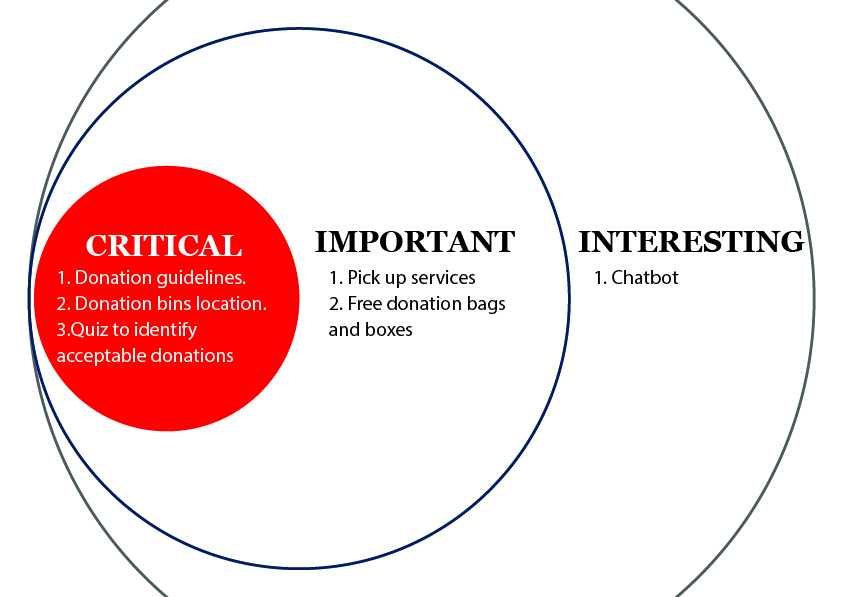
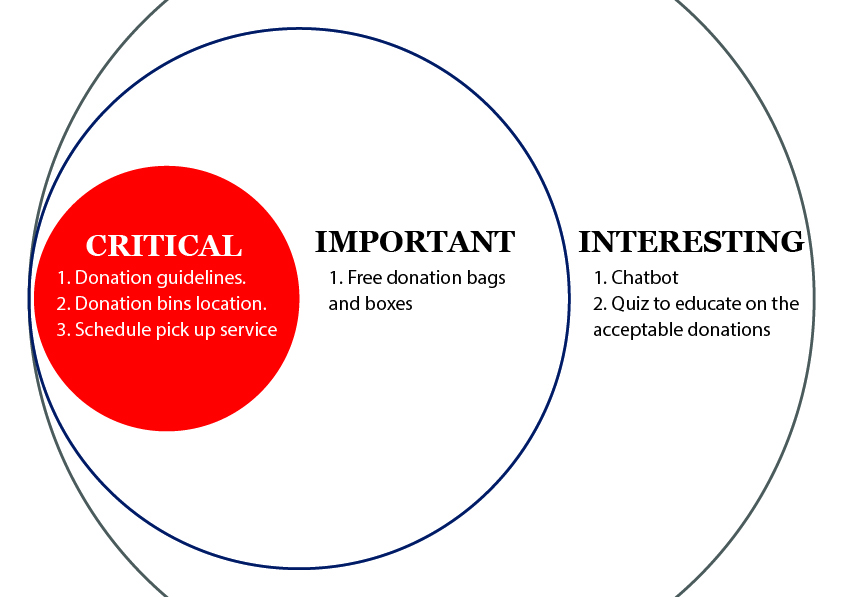
completed till sketches

Changed region(s): [[0.3701, 0.4523, 0.6168, 0.5729], [0.7094, 0.4824, 0.9561, 0.5729], [0.0617, 0.5427, 0.3393, 0.603]]

diff --git a/index.html b/index.html
@@ -172,24 +172,72 @@
 		
 				</div>
 
+				<p>Through journey mapping of the user profiles, we are presented with some opportunities. 
+					For example, guides for users who are confused on whether certain goods are acceptable for donation; 
+					Transport service for picking up bulky goods; Users can sign up for free boxes and bags to pack their donations.
+					A map to locate donation bins around them.</p>
+
+					<h3>Conclusion</h3>
+					<p>All the aforementioned opportunities can be used to drive users to the website. By providing them value added services, 
+						we can complete their user journey on the website with some infomation about Salvation Army's exisiting donation guidelines.
+						When users leave our website, they would be more educated about the whole donation process and guidelines.
+						And hopefully user can be more thoughtful on gathering their goods for donations, and also help cut wastage in the process.
+					</p>	
+
 
 			<!-- Use the blockquote element if applicable -->
 		</section>
 		<section id="ideation">
 			<h2>Ideation</h2>
-			<p>Ratione nulla nam, ipsa dignissimos corrupti veniam nostrum, laudantium asperiores sequi numquam placeat velit voluptate
-				in praesentium non labore unde incidunt laborum maxime quae magni.</p>
+			<p>With limited time and resources for this project, it is important to priortise which features to be put on the development roadmap.
+				Hence we'll be using a matrix to select what are the deliverables for this website.
+			</p>
+
+			<figure>
+				<img src="Assets/content-priortization.jpg" alt="content priortization matrix." />
+				<figcaption>Content priortization matrix to select what are the more important features to be delivered.</figcaption>
+
+			</figure>
+			<p>So we decided to focus on 3 features for this current design sprint:</p>
 			<ul>
-				<li>Lorem ipsum dolor sit amet, consectetuer adipiscing elit.</li>
-				<li>Aliquam tincidunt mauris eu risus.</li>
-				<li>Vestibulum auctor dapibus neque.</li>
+				<li>Donation guide to educate users on what are the acceptable donations.</li>
+				<li>A map feature to show users where are the nearby donation bins.</li>
+				<li>A feature for users to schedule pick up services for their bulky donations.</li>
 			</ul>
+
 			<h3 id="moodboards">Mood Boards</h3>
-			<p>Optio qui, omnis itaque rerum iusto molestiae necessitatibus deleniti quod tenetur id perspiciatis voluptatum dolorum
-				quisquam eius ipsum non architecto labore! Distinctio, tenetur. Officiis, necessitatibus?</p>
+
+			<figure>
+				<img src="Assets/moodboard-1.jpg" alt="moodboard 1" />
+				<img src="Assets/moodboard-2.jpg" alt="moodboard 2" />
+				<figcaption>Moodboards for ideation.</figcaption>
+
+			</figure>
+
+			<p>Before starting on ideation, a moodboard was created to get an idea or feel on what we want for the website. 
+				Some ideas include dropping <strong>bite sized information</strong> alongside the <strong>map features</strong>, 
+				and <strong>a pick up service feature</strong> where users can scedule a timeslot for Salvation Army to come pick up the bulky items for a small fee.
+			</p>
+
+			<p>And as such, we have also created an Information Architecture diagram that encompasses all the aforementioned features to show an overview of the website.</p>
+
+			<figure>
+				<img src="Assets/information-architecture.jpg" alt="information architecture diagram" />
+				<figcaption>Information Architecture for the proposed website</figcaption>
+			</figure>
+
+
 			<h3 id="sketches">Sketches</h3>
-			<p>Rem iste iure blanditiis excepturi esse nisi corrupti sequi, illo, laborum quo quis quaerat assumenda perspiciatis
-				quod fuga vel laudantium doloribus architecto tempora omnis earum!</p>
+			<p>Some quick sketches were done based on the content from our IA diagram.</p>
+			<div id="sketches-image">
+				<figure>
+					<img src="Assets/salvos-sketch2.jpg" alt="sketches 1"  />
+					<img src="Assets/salvos-sketch1.jpg" alt="sketches 2"  />
+					<figcaption>Ideation sketches</figcaption>
+				</figure>
+				
+			</div>
+
 		</section>
 		<section id="designs">
 			<h2>Designs</h2>
